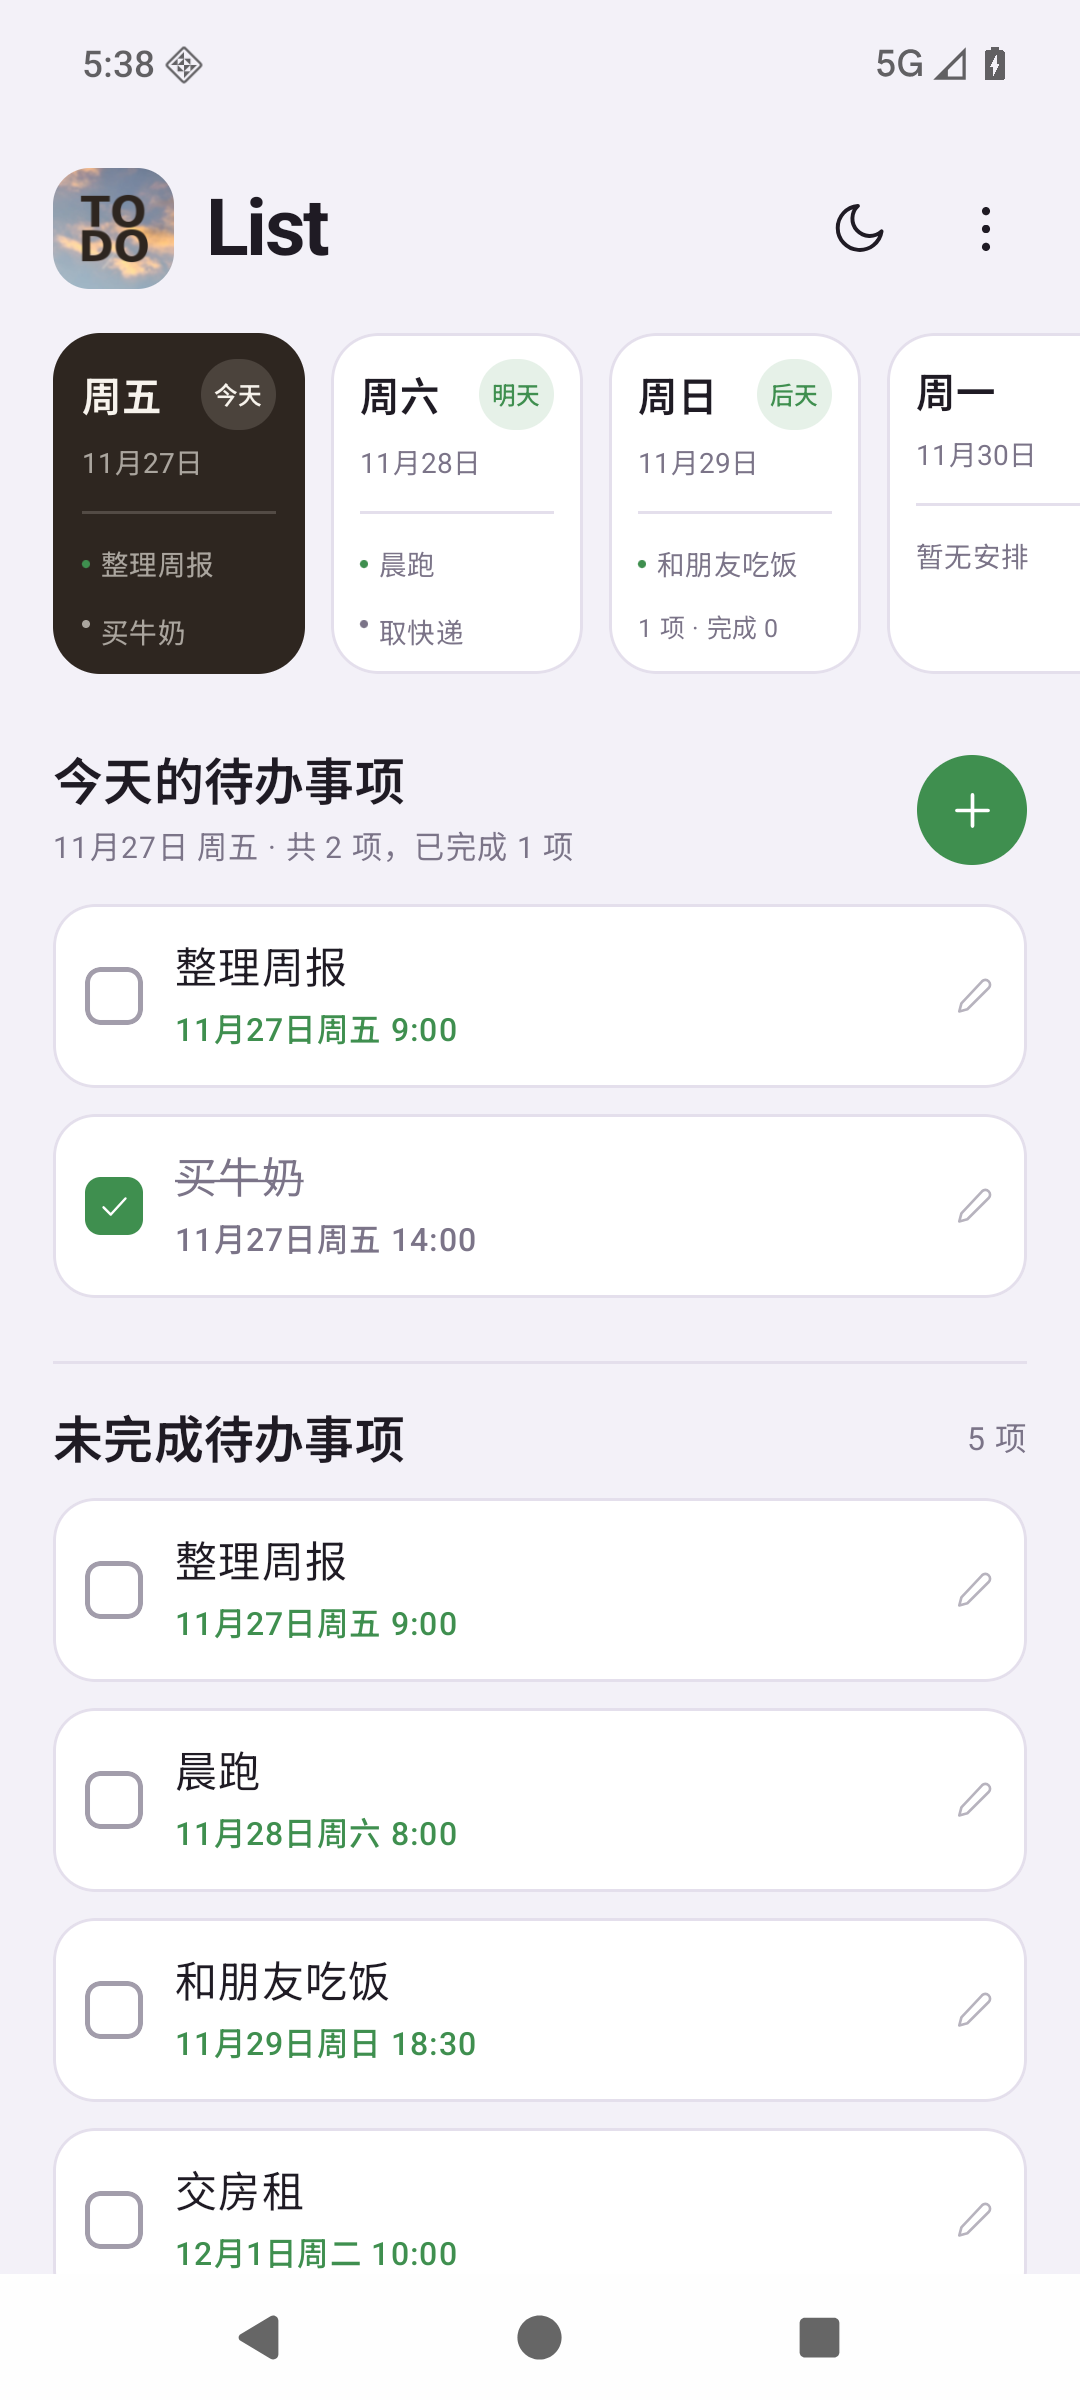
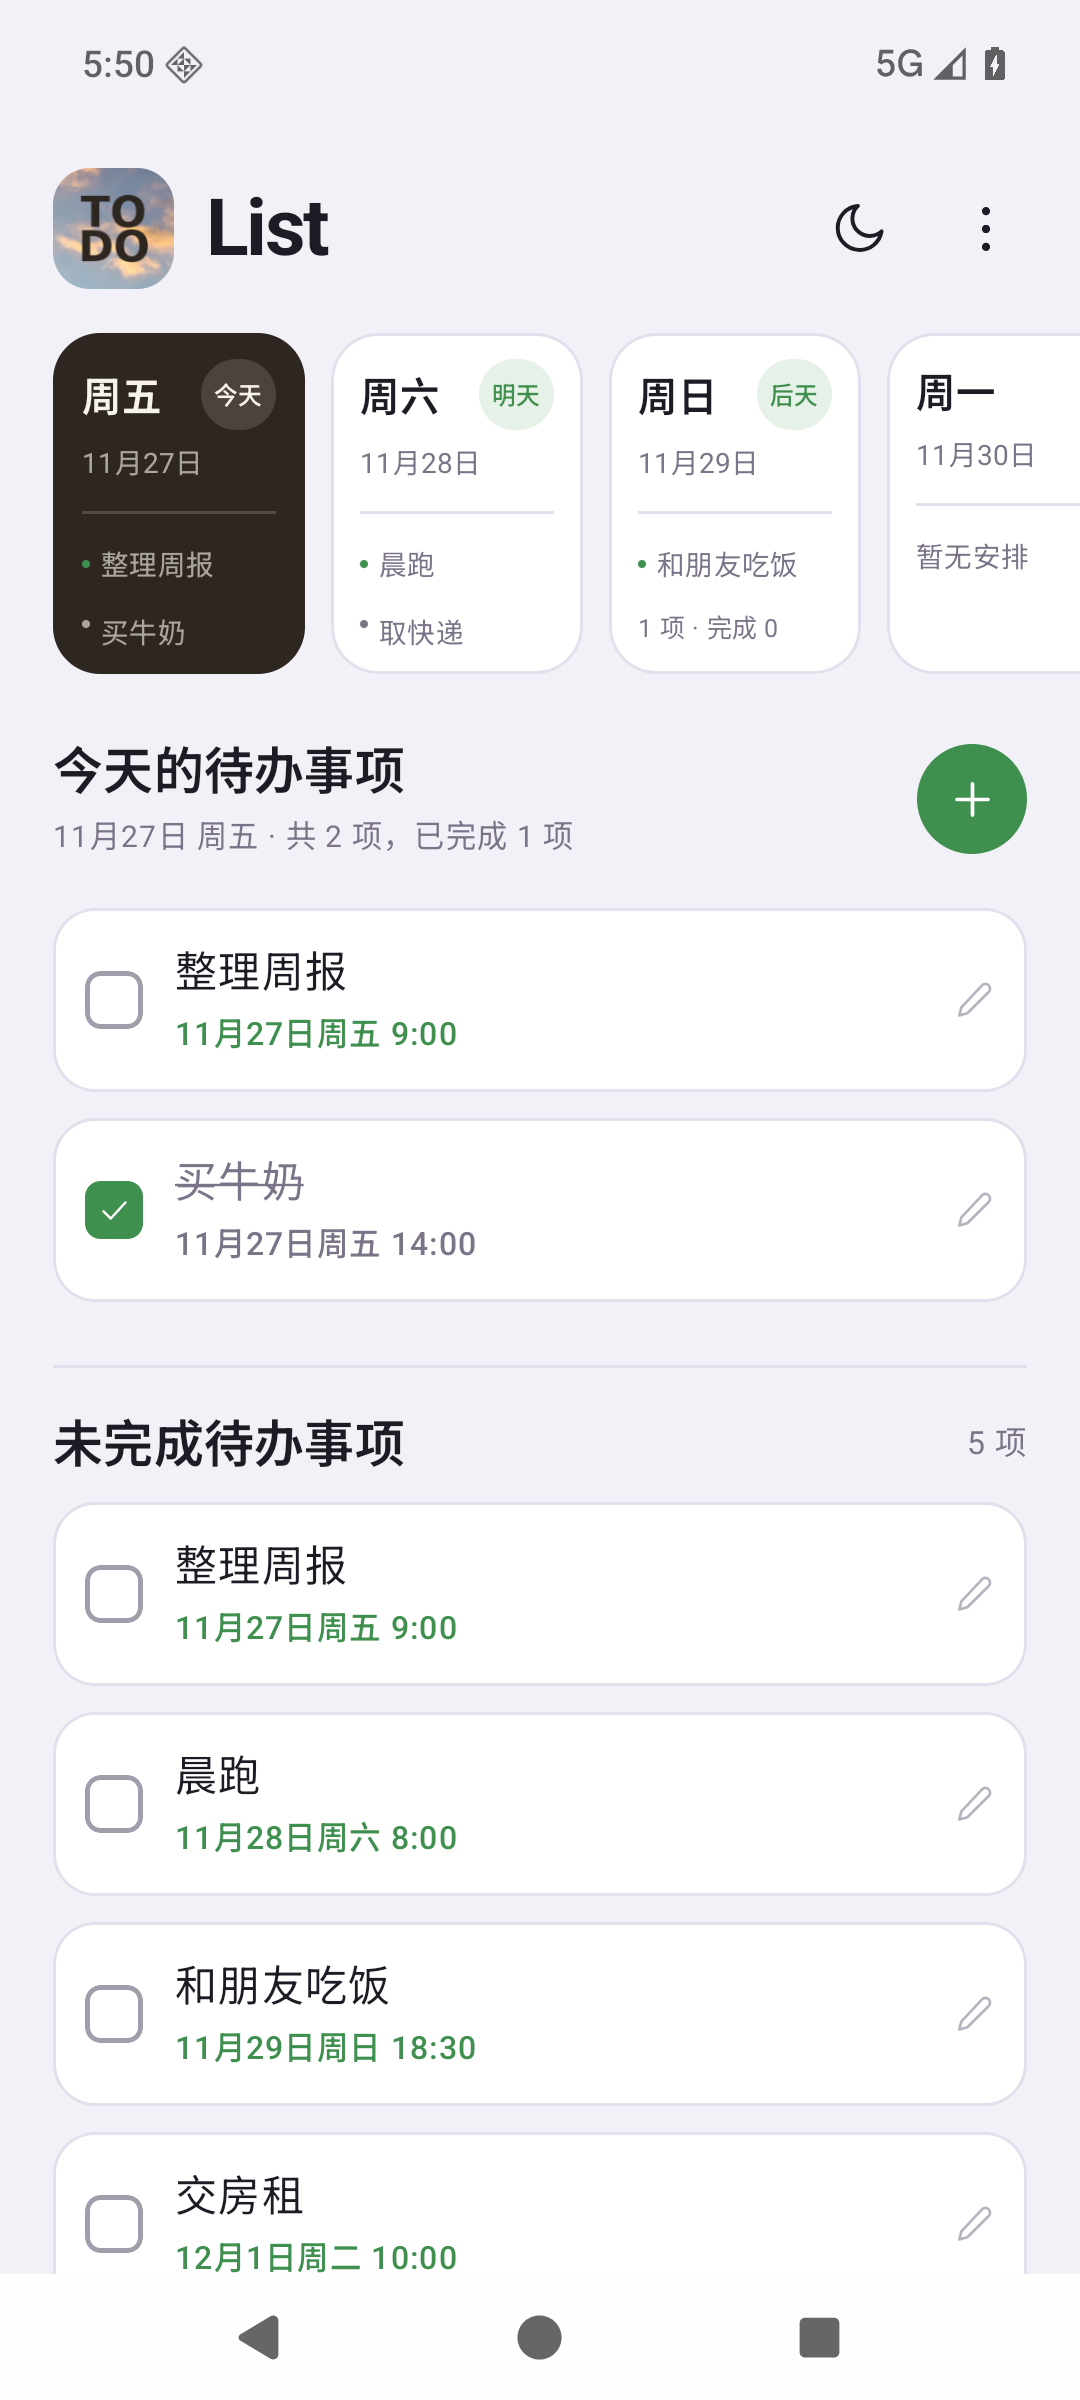
fix(ui): 日期卡片与清单合并为同一个纵向滚动容器，选中卡片自动滚入视野（v1.2.3）

diff --git a/app/src/main/java/com/dswork/list/ui/HomeScreen.kt b/app/src/main/java/com/dswork/list/ui/HomeScreen.kt
@@ -22,6 +22,7 @@ import androidx.compose.foundation.layout.width
 import androidx.compose.foundation.lazy.LazyColumn
 import androidx.compose.foundation.lazy.LazyRow
 import androidx.compose.foundation.lazy.items
+import androidx.compose.foundation.lazy.rememberLazyListState
 import androidx.compose.foundation.shape.CircleShape
 import androidx.compose.foundation.shape.RoundedCornerShape
 import androidx.compose.foundation.text.KeyboardActions
@@ -39,6 +40,7 @@ import androidx.compose.material3.Surface
 import androidx.compose.material3.Text
 import androidx.compose.material3.TextButton
 import androidx.compose.runtime.Composable
+import androidx.compose.runtime.LaunchedEffect
 import androidx.compose.runtime.getValue
 import androidx.compose.runtime.mutableStateOf
 import androidx.compose.runtime.remember
@@ -99,79 +101,98 @@ fun HomeScreen(
                 onOpenAbout = { aboutOpen = true },
             )
 
-            LazyRow(
-                modifier = Modifier.fillMaxWidth(),
-                contentPadding = PaddingValues(horizontal = 20.dp, vertical = 6.dp),
-                horizontalArrangement = Arrangement.spacedBy(10.dp),
-            ) {
-                items(days, key = { it.toEpochDay() }) { day ->
-                    DayCard(
-                        day = day,
-                        today = today,
-                        selected = day == selectedDay,
-                        todos = store.itemsFor(day),
-                        onClick = { selectedEpochDay = day.toEpochDay() },
-                    )
-                }
-            }
-
-            Spacer(Modifier.height(14.dp))
-
-            SectionHeader(
-                day = selectedDay,
-                todos = store.itemsFor(selectedDay),
-                today = today,
-                onAdd = {
-                    editing = null
-                    editorOpen = true
-                },
-            )
-
             val dayTodos = store.itemsFor(selectedDay)
             val weekUnfinished = store.items
                 .filter { !it.done && it.date in days }
                 .sortedWith(compareBy({ it.date }, { it.minutes }, { it.id }))
 
+            val dayStripState = rememberLazyListState()
+            LaunchedEffect(selectedEpochDay) {
+                val index = days.indexOfFirst { it.toEpochDay() == selectedEpochDay }
+                if (index >= 0) dayStripState.animateScrollToItem(index)
+            }
+
             LazyColumn(
                 modifier = Modifier.fillMaxWidth().weight(1f),
-                contentPadding = PaddingValues(start = 20.dp, end = 20.dp, top = 4.dp, bottom = 28.dp),
+                contentPadding = PaddingValues(bottom = 28.dp),
                 verticalArrangement = Arrangement.spacedBy(10.dp),
             ) {
+                item(key = "day-strip") {
+                    LazyRow(
+                        state = dayStripState,
+                        modifier = Modifier.fillMaxWidth(),
+                        contentPadding = PaddingValues(horizontal = 20.dp, vertical = 6.dp),
+                        horizontalArrangement = Arrangement.spacedBy(10.dp),
+                    ) {
+                        items(days, key = { it.toEpochDay() }) { day ->
+                            DayCard(
+                                day = day,
+                                today = today,
+                                selected = day == selectedDay,
+                                todos = store.itemsFor(day),
+                                onClick = { selectedEpochDay = day.toEpochDay() },
+                            )
+                        }
+                    }
+                }
+
+                item(key = "section-header") {
+                    SectionHeader(
+                        day = selectedDay,
+                        todos = store.itemsFor(selectedDay),
+                        today = today,
+                        onAdd = {
+                            editing = null
+                            editorOpen = true
+                        },
+                    )
+                }
+
                 if (dayTodos.isEmpty()) {
                     item(key = "selected-empty") {
-                        EmptyState(isToday = selectedDay == today)
+                        Box(Modifier.fillMaxWidth().padding(horizontal = 20.dp)) {
+                            EmptyState(isToday = selectedDay == today)
+                        }
                     }
                 } else {
                     items(dayTodos, key = { "selected-${it.id}" }) { todo ->
-                        TodoRow(
-                            todo = todo,
-                            onToggle = { store.toggle(todo.id) },
-                            onClick = {
-                                editing = todo
-                                editorOpen = true
-                            },
-                        )
+                        Box(Modifier.fillMaxWidth().padding(horizontal = 20.dp)) {
+                            TodoRow(
+                                todo = todo,
+                                onToggle = { store.toggle(todo.id) },
+                                onClick = {
+                                    editing = todo
+                                    editorOpen = true
+                                },
+                            )
+                        }
                     }
                 }
 
                 item(key = "unfinished-header") {
-                    UnfinishedHeader(count = weekUnfinished.size)
+                    Box(Modifier.fillMaxWidth().padding(horizontal = 20.dp)) {
+                        UnfinishedHeader(count = weekUnfinished.size)
+                    }
                 }
 
                 if (weekUnfinished.isEmpty()) {
                     item(key = "unfinished-empty") {
-                        UnfinishedEmpty()
+                        Box(Modifier.fillMaxWidth().padding(horizontal = 20.dp)) {
+                            UnfinishedEmpty()
+                        }
                     }
                 } else {
                     items(weekUnfinished, key = { "unfinished-${it.id}" }) { todo ->
-                        TodoRow(
-                            todo = todo,
-                            onToggle = { store.toggle(todo.id) },
-                            onClick = {
-                                editing = todo
-                                editorOpen = true
-                            },
-                        )
+                        Box(Modifier.fillMaxWidth().padding(horizontal = 20.dp)) {
+                            TodoRow(
+                                todo = todo,
+                                onToggle = { store.toggle(todo.id) },
+                                onClick = {
+                                    editing = todo
+                                    editorOpen = true
+                                },
+                            )
+                        }
                     }
                 }
             }

diff --git a/README.md b/README.md
@@ -17,7 +17,8 @@
 
 **2. 今天 + 后六天的日程**
 - 一排横向滑动的方块卡片，每张写清**星期**（周四）和**几月几号**（11月26日），今天/明天/后天用右上角小胶囊额外标注；卡片内还有当天事项预览（最多两条 + 剩余条数）和「N 项 · 完成 M」统计；
-- 选中的卡片以反色高亮；滑动不会挤占下方空间；
+- 整页是**同一个纵向滚动容器**：日期卡片、当天清单、未完成汇总一起滚动，向下翻时卡片会跟着收起；卡片行内的左右滑动仍然独立；
+- 选中的卡片以反色高亮，选中后卡片行会自动把该卡片滚到可见位置；
 - 点击任意卡片，下方清单立刻切换到那天的事项。
 
 **3. 当天待办事项**
@@ -87,7 +88,7 @@ python make_icons.py \
 | 构建 | AGP 9.5.3 / Gradle 9.6.0 / JDK 17 字节码 |
 | SDK | compileSdk 37.2、targetSdk 37、minSdk 26（Android 8.0+） |
 | 依赖 | Compose BOM 2026.11.01 + activity-compose + core-ktx（无第三方网络库） |
-| 版本 | versionCode 5 / versionName 1.2.2 |
+| 版本 | versionCode 6 / versionName 1.2.3 |
 
 ## 目录结构
 
